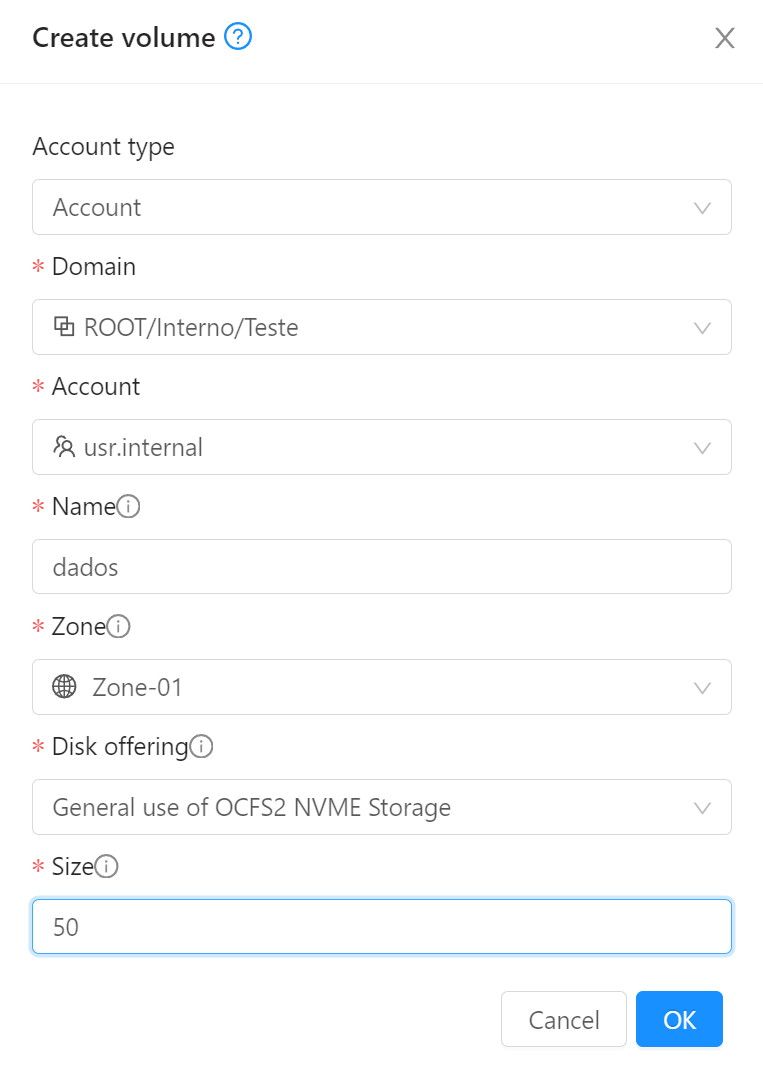
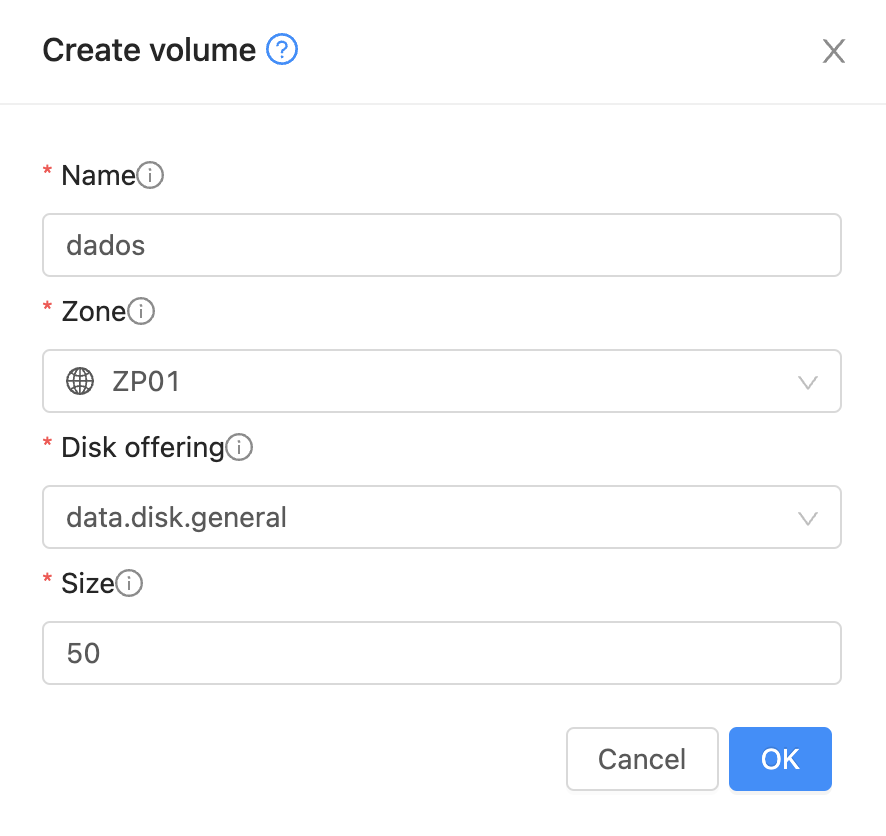
update

diff --git a/docs/snapshots.md b/docs/snapshots.md
@@ -31,7 +31,7 @@ Por exemplo, para acesso SSH podemos encaminhar a porta _22000_ de um IP para a 
 
 Isso proporciona mais um nível de segurança além do _firewall_, porque sem um encaminhamento explícito a instância fica inacessível pela internet pública. É um bom caso de uso para a instância _bd_, para a qual precisamos abrir apenas a porta de SSH para fora da _minha-rede_.
 
-Acesse a rede pré-criada (_minha-rede_) e clique sobre o primeiro IP da lista, que possui a nota `source-nat` ao lado dele.
+Acesse a rede pré-criada (_minha-rede_) e clique sobre o primeiro IP da lista, que possui a nota `source-nat` ao lado dele. Anote o IP escolhido: `xIP_FWDx`
 
 Clique na aba __Firewall__ e crie a regra:
 
@@ -125,7 +125,7 @@ A seguir ilustrarmos o uso de _snapshots_ do volume _raiz_ para recuperação da
 ![Template bd](template-bd.png)
 9. Finalmente crie a instância a partir do _template_. Clique em __Compute__, __Instances__, __Add instance +__.
     - Em __Template/ISO__ escolha __My templates__, _template-bd_.
-    - Em __Compute offering__ escolha _LWSA.micro_
+    - Em __Compute offering__ escolha _micro_
     - Em __Networks__ escolha _minha-rede_ para colocar a instância na mesma rede que a _web_
     - Em __SSH key pairs__ escolha _minha-chave_ cadastrada previamente.
     - Em __Name (Optional)__ coloque _bd_.
@@ -134,12 +134,11 @@ A seguir ilustrarmos o uso de _snapshots_ do volume _raiz_ para recuperação da
 Acesse o servidor novamente:
 
 ```bash
-# Substitua o endereço IP abaixo pelo que foi configurado com port forwarding acima
-ssh root@200.234.208.5 -p 22001
+ssh root@xIP_FWDx -p 22001
 ```
 A conexão pode ser recusada pelo cliente SSH devido à mudança de chave no servidor, o que é esperado já que ele foi recriado. Para apagar a chave antiga do cliente:
 ```bash
-ssh-keygen -R "[200.234.208.5]:22001" # substitua pelo IP acima
+ssh-keygen -R "[xIP_FWDx]:22001"
 ```
 Após logar-se confira se o banco foi recuperado:
 ```bash
@@ -205,7 +204,7 @@ Agora demonstraremos um outro cenário de DR onde usamos um volume específico d
 
 Obs. Antes de iniciar, apague o _VM Snapshot_ criado em __Storage__, __VM snapshots__ pois sua existência é incompatível com as operações a seguir.
 
-1. Acesse __Storage__, __Volumes__ e __Create volume +__, preencha com nome _dados_ e tamanho _50_
+1. Acesse __Storage__, __Volumes__ e __Create volume +__, preencha com nome _dados_, escolha _Disk offering: data.disk.general_  e tamanho _50_
 ![Create volume](create-volume.png)
 2. Clique no volume criado e em __Attach disk__
 ![Attach disk](attach-disk.png)
